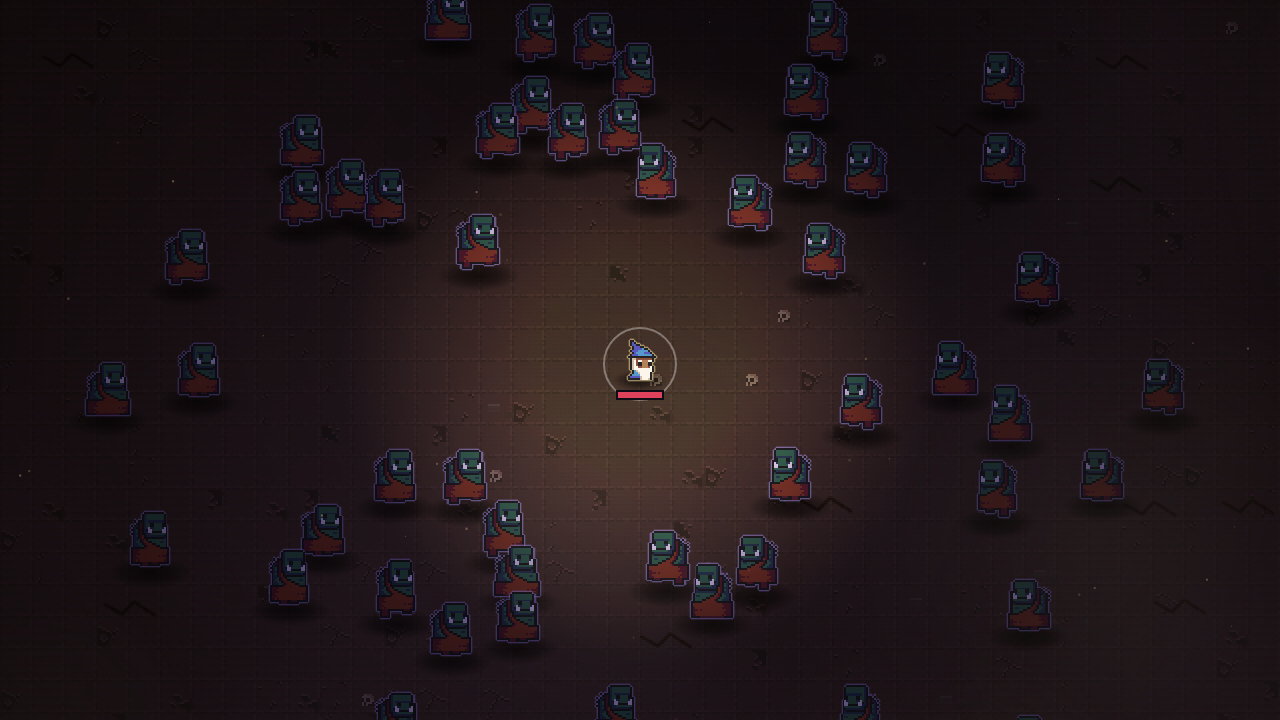
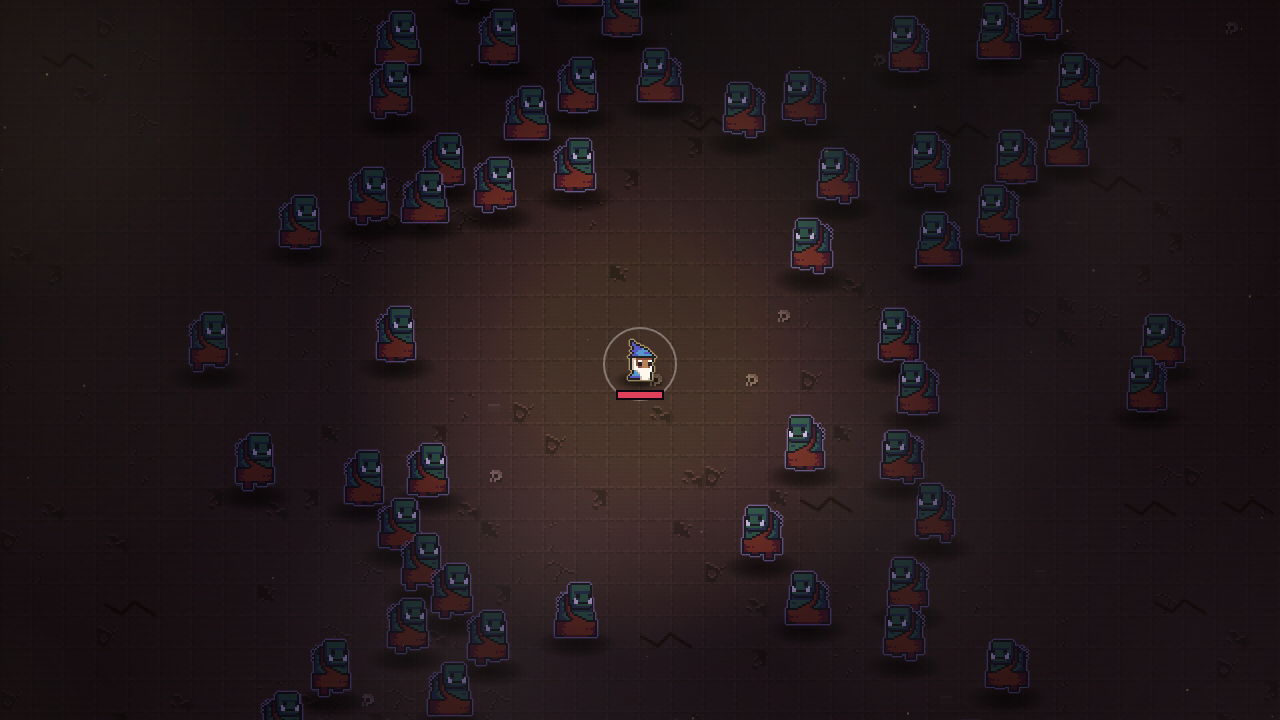
V8 G5: make fog more visible

diff --git a/js/data.js b/js/data.js
@@ -222,11 +222,11 @@ const ITEMS = {
    mix: thành phần quái theo giây trong đợt; events: sự kiện theo giây trong đợt. */
 const WAVE_DEFS = [
   { name: 'Nghĩa địa thức giấc', dur: 110, rate: [1.1, 3.0], boss: 'bossZombie', ambient: '#8088b8',
-    ground: { tint: 'rgba(10,8,18,0.50)', decor: ['tomb', 'grass', 'grass'], light: '5,3,12', mote: '#bcd6ff' }, weather: { kind: 'fog', col: '#9fb0dc', a: 0.10 },
+    ground: { tint: 'rgba(10,8,18,0.50)', decor: ['tomb', 'grass', 'grass'], light: '5,3,12', mote: '#bcd6ff' }, weather: { kind: 'fog', col: '#9fb0dc', a: 0.22 },
     mix: [{ t: 0, mix: { bat: 1 } }, { t: 20, mix: { bat: 3, slime: 1 } }, { t: 55, mix: { bat: 2, slime: 2, splitter: 0.5 } }, { t: 85, mix: { bat: 2, slime: 2, skeleton: 1, splitter: 0.5 } }], elites: [75],
     events: [{ t: 30, kind: 'circle', type: 'bat', n: 26, msg: 'Bị bao vây!' }, { t: 65, kind: 'swarm', type: 'bat', n: 25, msg: 'Bầy tiểu quỷ kéo đến!' }] },
   { name: 'Tiếng gọi tử linh', dur: 140, rate: [2.0, 3.6], boss: 'bossNecro', ambient: '#6f78a8',
-    ground: { tint: 'rgba(38,10,48,0.50)', decor: ['bones', 'rune', 'bones'], light: '12,3,22', mote: '#c9a6ff' }, weather: { kind: 'fog', col: '#a58ad8', a: 0.10 },
+    ground: { tint: 'rgba(38,10,48,0.50)', decor: ['bones', 'rune', 'bones'], light: '12,3,22', mote: '#c9a6ff' }, weather: { kind: 'fog', col: '#a58ad8', a: 0.20 },
     mix: [{ t: 0, mix: { bat: 3, slime: 2, skeleton: 1 } }, { t: 30, mix: { bat: 2, slime: 2, skeleton: 2, ghost: 1, bomber: 1 } }, { t: 110, mix: { bat: 2, slime: 2, skeleton: 2, ghost: 1, golem: 1, bomber: 1, charger: 1 } }], elites: [60, 110],
     events: [{ t: 50, kind: 'circle', type: 'slime', n: 36, msg: 'Bị bao vây!' }, { t: 110, kind: 'swarm', type: 'bat', n: 45, msg: 'Bầy tiểu quỷ kéo đến!' }] },
   { name: 'Đất rung chuyển', dur: 140, rate: [4.2, 7.0], boss: 'bossOgre', ambient: '#6a5f96',
@@ -234,7 +234,7 @@ const WAVE_DEFS = [
     mix: [{ t: 0, mix: { bat: 2, skeleton: 3, ghost: 2, golem: 1, bomber: 2, charger: 2, splitter: 1 } }, { t: 70, mix: { bat: 3, slime: 2, skeleton: 3, ghost: 2, golem: 1, bomber: 2, charger: 2, splitter: 1 } }], elites: [60, 110],
     events: [{ t: 45, kind: 'circle', type: 'skeleton', n: 40, msg: 'Bị bao vây!' }, { t: 100, kind: 'swarm', type: 'skeleton', n: 50, msg: 'Đội quân xương trỗi dậy!' }] },
   { name: 'Màn đêm cuối cùng', dur: 140, rate: [7.0, 11.5], boss: 'boss', ambient: '#7a5560',
-    ground: { tint: 'rgba(60,6,14,0.55)', decor: ['blood', 'ember', 'ember'], light: '18,2,5', mote: '#ff9a4a' }, weather: { kind: 'ash', col: '#ffdc8c', a: 0.12 },
+    ground: { tint: 'rgba(60,6,14,0.55)', decor: ['blood', 'ember', 'ember'], light: '18,2,5', mote: '#ff9a4a' }, weather: { kind: 'ash', col: '#ffdc8c', a: 0.16 },
     mix: [{ t: 0, mix: { bat: 3, skeleton: 4, ghost: 2, golem: 2, bomber: 2, charger: 3, splitter: 1 } }, { t: 70, mix: { bat: 4, skeleton: 4, ghost: 3, golem: 2, bomber: 2, charger: 3, splitter: 1 } }], elites: [60, 110],
     events: [{ t: 40, kind: 'circle', type: 'golem', n: 24, msg: 'Quỷ khổng lồ bao vây!' }, { t: 95, kind: 'swarm', type: 'bat', n: 80, msg: 'Màn đêm cuối cùng!' }] },
 ];

diff --git a/tools/checks.js b/tools/checks.js
@@ -598,7 +598,8 @@ window.runChecks = async function () {
   }
   { // ---- V7-1 (A1): lớp ánh sáng đêm ----
     const lum = (x, y) => { const d = ctx.getImageData(x, y, 8, 8).data; let s = 0; for (let i = 0; i < d.length; i += 4) s += 0.2126 * d[i] + 0.7152 * d[i + 1] + 0.0722 * d[i + 2]; return s / (d.length / 4); };
-    const shot = on => { SETTINGS.light = on; light.failed = false; render(1); return [lum(cv.width / 2 - 60, cv.height / 2 + 40), lum(12, 12)]; };
+    // chỉ đo lightmap: tắt lớp thời tiết G5 (mảng sương trùng góc 8×8 làm góc sáng lên — phần đó do V8-5 kiểm)
+    const shot = on => { const dw = window.drawWeather; window.drawWeather = () => {}; SETTINGS.light = on; light.failed = false; render(1); window.drawWeather = dw; return [lum(cv.width / 2 - 60, cv.height / 2 + 40), lum(12, 12)]; };
     fresh(); G.enemies.clear(); G.gems.clear(); G.shake = 0;
     const [cOff, kOff] = shot(false), [cOn, kOn] = shot(true);
     const sized = light.cv && light.cv.width === Math.ceil(VW) && light.cv.height === Math.ceil(VH);

diff --git a/js/render.js b/js/render.js
@@ -588,7 +588,9 @@ function fogImg(col) {
   }
   return c;
 }
-const FOG = Array.from({ length: CFG.weather.blobs }, () => ({ x: Math.random(), y: Math.random(), s: Math.random(), vx: rand(0.5, 1), vy: rand(-0.4, 0.4) }));
+// Vị trí mảng sương cố định theo hash (không Math.random): cảnh và số đo V7-1/V8-1/V8-5 lặp lại được giữa các lần tải
+const fogU = (i, k) => (hash(i, k) % 1000) / 1000;
+const FOG = Array.from({ length: CFG.weather.blobs }, (_, i) => ({ x: fogU(i, 1), y: fogU(i, 2), s: fogU(i, 3), vx: 0.5 + 0.5 * fogU(i, 4), vy: 0.8 * fogU(i, 5) - 0.4 }));
 const ASH = Array.from({ length: CFG.weather.ash }, () => ({ x: Math.random(), y: Math.random(), v: rand(0.6, 1), s: Math.random() < 0.5 ? 1 : 2, a: rand(CFG.weather.ashA[0], CFG.weather.ashA[1]) }));
 function drawWeather(camX, camY, t, wi) {
   const wd = WAVE_DEFS[wi].weather, C = CFG.weather, k = W / VW;

diff --git a/index.html b/index.html
@@ -10,7 +10,7 @@
 <link rel="apple-touch-icon" href="assets/icon-192.png">
 <script>
   // PHIÊN BẢN: đổi MỘT chỗ này sau mỗi lần sửa JS/CSS (thêm ?v=… vào mọi file để trình duyệt không dùng bản cũ)
-  window.VER = 'v8e';
+  window.VER = 'v8f';
   document.write('<link rel="stylesheet" href="css/game.css?v=' + VER + '">');
 </script>
 </head>

diff --git a/KE_HOACH_V8.md b/KE_HOACH_V8.md
@@ -235,6 +235,8 @@ const hdist = (a, b) => { const d = Math.abs(hue(a) - hue(b)); return Math.min(d
 
 **Kết quả G5** (22/11/2026, pane 1280×720 hiện, G3 vẫn bỏ qua nên đếm 76 → 77): `runChecks()` 77/77. `V8-5` trước → sau: `không có drawWeather` (trượt) → `vẽ 10/10/10/40, Dễ nhìn 0, vô tận ok, tâm đổi 1.5%, sắc độ ≥ 37°`. Lệch kế hoạch: (1) **màu**: bụi đợt 3 `#b89a72` (lệch 29°) → `#b4a888` (39°), tro đợt 4 `#ffb46a` (25°) → `#ffdc8c` (37°) để giữ luật màu V7; V8-5 thêm (d) kiểm mọi `weather.col` lệch ≥ 35° so với `CFG.light.zoneCol`, và (a) kiểm thêm chiều ngược "mỗi đợt CÓ vẽ" (không thì "Dễ nhìn không vẽ gì" đạt sẵn); (2) thời tiết **chỉ vẽ khi `lightOn()`** (trong khối `drawLights` của `renderScene`; menu cũng vậy) — theo trọng tâm review 1 và Task 7: tắt ánh sáng đêm/tự tắt vì máy yếu thì không có sương trên nền sáng; (3) thêm vào `CFG.weather`: `ashFall` 14 (đơn vị/giây), `ashA` [2.5, 5] (độ đậm hạt tro = `weather.a` × hệ số → 0.3–0.6), `clearR` 120 (bán kính mờ quanh tâm); vẽ sương bật `imageSmoothingEnabled` (ảnh 128 px phóng ~1000 px); (4) (c) đo trung bình vùng 40×40 px ở tâm, cả 4 đợt, so với `drawWeather` thay bằng hàm rỗng. Lưu ý: với `a` 0.10 của kế hoạch, sương rất nhạt — bỏ hẳn vùng mờ quanh tâm thì tâm cũng chỉ đổi 2.6% (nên (c) khó trượt với số hiện tại); nếu người dùng muốn sương rõ hơn thì tăng `weather.a`, (c) sẽ giữ tâm màn. `perf()` cùng phiên, xen kẽ thay `drawWeather` bằng hàm rỗng / bật: đợt 1 1.3/1.2/1.3 → 1.2/1.4/1.3 ms (trung vị 1.3 → 1.3), đợt 4 1.1/1.3/1.1 → 1.2/1.2/1.3 (1.1 → 1.2); chỉ đo thời gian CPU của `render(1)`, phần tô GPU của 10 mảng ~1000 px không đo được ở đây. Ảnh: `tools/shots/v8-after-wave1..4.png` (cùng cảnh Task 0: 60 golem 100–280 đơn vị, `tick(0.2)`, bật đèn; lúc chụp G3 chưa làm nên chỉ khác ở sương/tro + vết loang G4).
 
+**Sương rõ hơn** (22/11/2026, VER `v8f`): `weather.a` đợt 1 0.10 → 0.22, đợt 2 0.10 → 0.20, bụi đợt 3 giữ 0.08, tro đợt 4 0.12 → 0.16. Giới hạn thật là `V8-1` (tương phản TƯƠNG ĐỐI ở 200 đơn vị, nền chỉ ≈ 12/255): sương nâng nền nên tỉ lệ tụt dù chênh tuyệt đối gần như không đổi (đợt 1: Δ ≈ 10 ở mọi `a`). Đo 16 bố cục sương ngẫu nhiên (cách đo V8-1, áp cho từng đợt): đợt 1 `a` 0.22 trung vị 51% (0.25 → 46%), đợt 2 0.20 → 43%, đợt 3 0.10 → 40% (0.15 → 34% trượt); riêng hoạt ảnh/nhún của golem đã làm V8-1 dao động ±4% giữa các lần (trong `runChecks` với bụi 0.10: 35–36%, sát ngưỡng) → bụi đợt 3 GIỮ 0.08 (V8-1 chỉ kiểm đợt 3; muốn bụi rõ hơn thì phải làm G1 hoặc đổi thước đo V8-1 sang chênh tuyệt đối — việc của người dùng). Phát hiện: với vị trí sương `Math.random` lúc tải, V8-1 và V7-1 **chập chờn ngay cả ở số cũ** (V8-1 đợt 3 `a` 0.08 thấp nhất 28%; V7-1 góc 8×8 bị mảng sương phủ lên tới 0.83 > 0.75) → vị trí mảng sương nay cố định theo `hash` (`fogU`, cảnh không đổi kiểu), và V7-1 tắt `drawWeather` khi đo (V7-1 kiểm lightmap; ảnh hưởng của sương do V8-5 kiểm). `runChecks()` 77/77 (pane 1280×720 hiện): V7-1 góc 0.56, V8-1 41% (lần trước với bụi 0.10: 35–36%), V8-5 tâm đổi 0.0% (bố cục cố định không có mảng nào ở tâm lúc đo). Ảnh `tools/shots/v8-after-wave1..4.png` chụp lại (cùng cảnh, cùng cách chụp): đợt 1–2 thấy rõ các mảng sương xanh/tím ở vùng tối, golem vẫn rõ viền; đợt 3 bụi vẫn rất nhạt; đợt 4 hạt tro thấy được.
+
 ---
 
 ### Task G6: Nhân vật bóp-giãn
